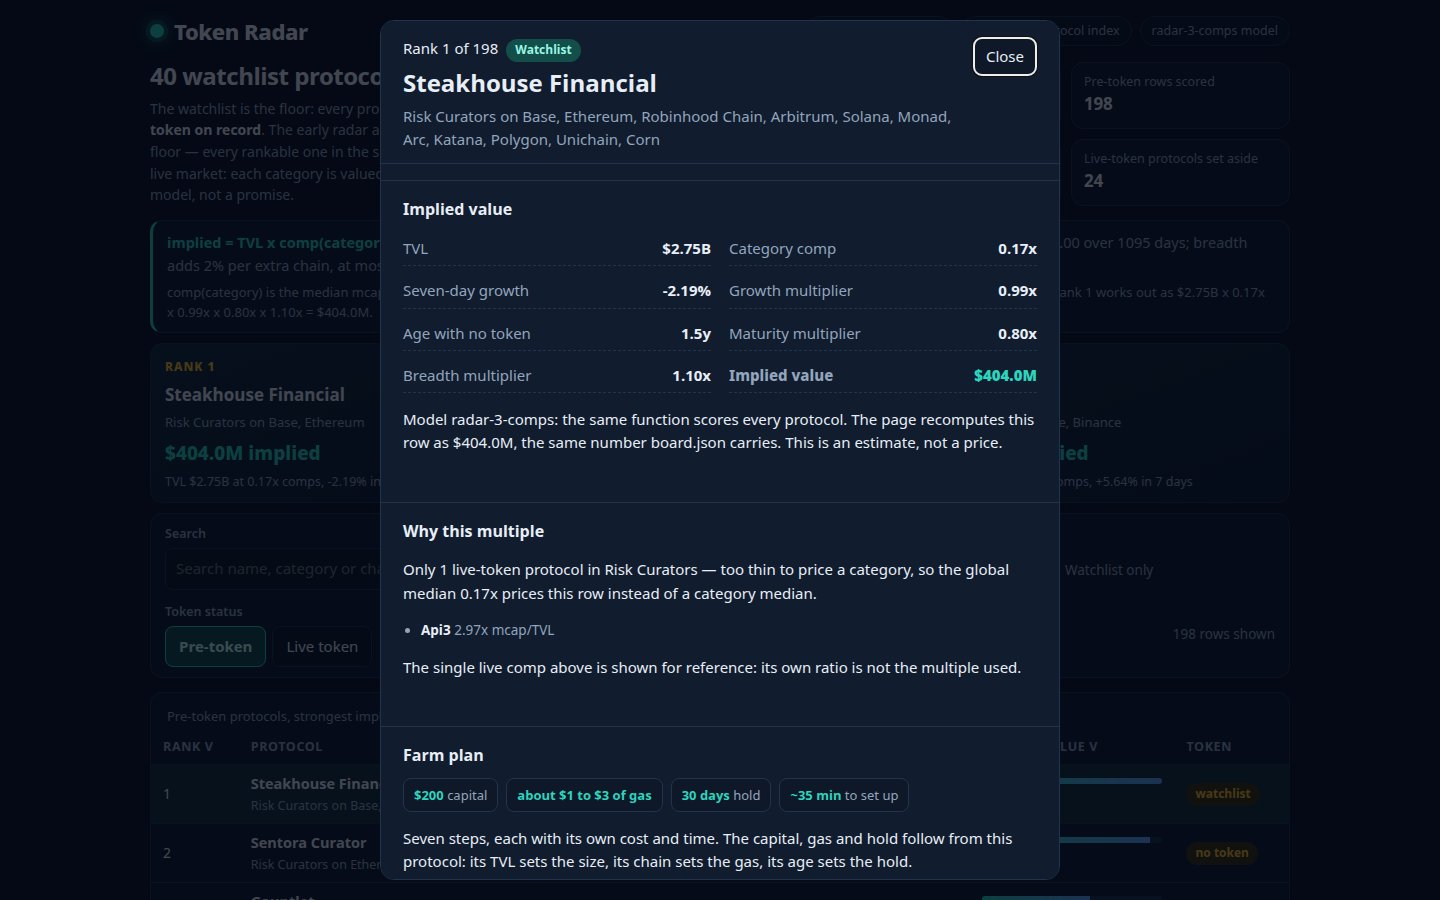
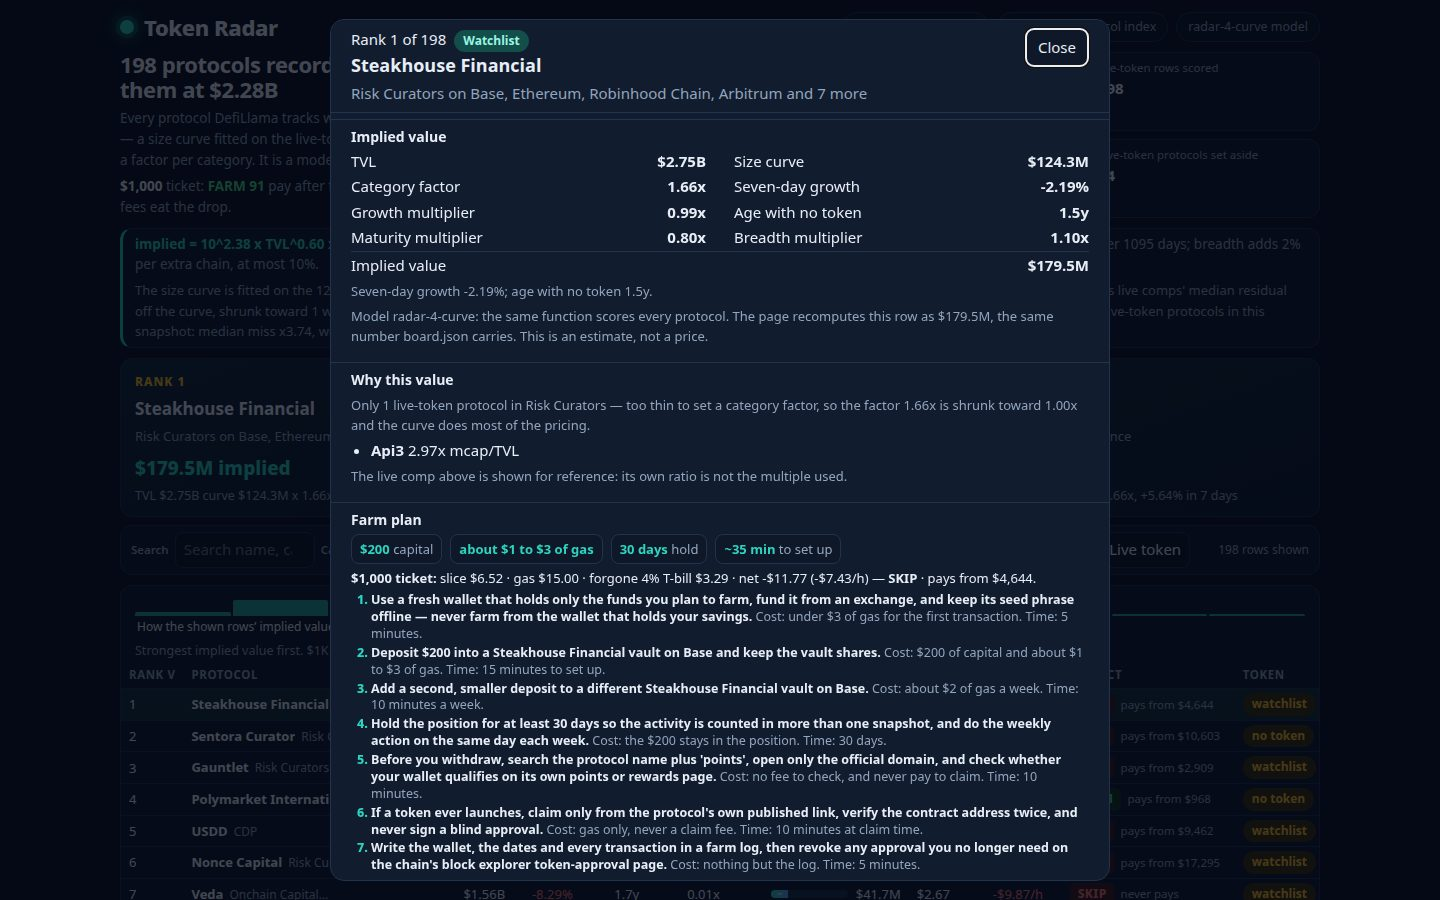
Token Radar v3 visuals (slot3-judge): final screenshots on fitted model + compact detail modal (all 7 farm steps visible)

diff --git a/dashboard/app.css b/dashboard/app.css
@@ -102,25 +102,30 @@ td.num{font-variant-numeric:tabular-nums;white-space:nowrap}
 .note b{color:var(--ink)}
 dialog.detail{border:1px solid var(--line);background:var(--panel);color:var(--ink);border-radius:14px;max-width:780px;width:calc(100vw - 32px);max-height:calc(100vh - 24px);overflow:auto;padding:0}
 dialog.detail::backdrop{background:rgba(2,6,16,.72)}
-.detail-head{display:flex;justify-content:space-between;gap:14px;padding:10px 20px 8px;position:sticky;top:0;background:var(--panel);z-index:2;border-bottom:1px solid var(--line)}
-.detail-head h2{margin:2px 0 4px;font-size:20px}
+.detail-head{display:flex;justify-content:space-between;gap:14px;padding:8px 20px 6px;position:sticky;top:0;background:var(--panel);z-index:2;border-bottom:1px solid var(--line)}
+.detail-head h2{margin:0 0 2px;font-size:18px}
 .detail-head .sub{color:var(--muted);margin:0}
 .close{background:var(--panel2);border:1px solid var(--line);color:var(--ink);border-radius:8px;padding:7px 12px;font:inherit;cursor:pointer;height:fit-content}
-.detail-section{padding:8px 20px;border-top:1px solid var(--line);margin-top:8px}
-.detail-section h3{margin:0 0 5px;font-size:14px}
-.detail-section .sub{color:var(--muted);font-size:13px;margin:6px 0}
+.detail-section{padding:6px 20px;border-top:1px solid var(--line);margin-top:6px}
+.detail-section h3{margin:0 0 3px;font-size:14px}
+.detail-section .sub{color:var(--muted);font-size:13px;margin:4px 0}
+.equation{display:grid;grid-template-columns:1fr 1fr;gap:2px 28px}
+.equation>div{display:flex;justify-content:space-between;gap:12px}
+.equation .num{font-variant-numeric:tabular-nums;white-space:nowrap}
+.equation>.total{grid-column:1/-1;border-top:1px solid var(--line);padding-top:2px}
+.members{margin:4px 0;padding-left:20px}
 .equation-line{font-size:13.5px;line-height:1.6;margin:0}
 .equation-line b{color:var(--ink)}
 .equation-line .total{color:var(--teal);font-weight:800}
-.steps{margin:0;padding-left:20px;display:grid;gap:3px;font-size:12.5px;line-height:1.45}
+.steps{margin:0;padding-left:20px;display:grid;gap:2px;font-size:12.5px;line-height:1.35}
 .steps li::marker{color:var(--teal);font-weight:800}
 .steps .cost{color:var(--muted);font-size:12.5px}
 .members-line{margin:6px 0 0;color:var(--muted);font-size:13px;line-height:1.45}
 .members-line b{color:var(--ink)}
-.farm-sum{display:flex;gap:8px;flex-wrap:wrap;margin-bottom:6px}
+.farm-sum{display:flex;gap:8px;flex-wrap:wrap;margin-bottom:4px}
 .farm-sum span{border:1px solid var(--line);background:var(--panel2);border-radius:8px;padding:4px 8px;font-size:13px;color:var(--muted)}
 .farm-sum b{color:var(--teal)}
-.ticket-line{font-size:13px;margin:0 0 6px}
+.ticket-line{font-size:13px;margin:0 0 4px}
 .badge{display:inline-block;background:var(--teal-dim);color:#99f6e4;border-radius:99px;padding:2px 9px;font-size:12px;font-weight:700;margin-left:8px}
 footer{color:var(--faint);font-size:12.5px;padding:8px 0}
-@media (max-width:760px){.lede{grid-template-columns:1fr}.spot{grid-template-columns:1fr}.facts{grid-template-columns:1fr 1fr}.count{margin-left:0}}
+@media (max-width:760px){.lede{grid-template-columns:1fr}.spot{grid-template-columns:1fr}.equation{grid-template-columns:1fr}.facts{grid-template-columns:1fr 1fr}.count{margin-left:0}}
